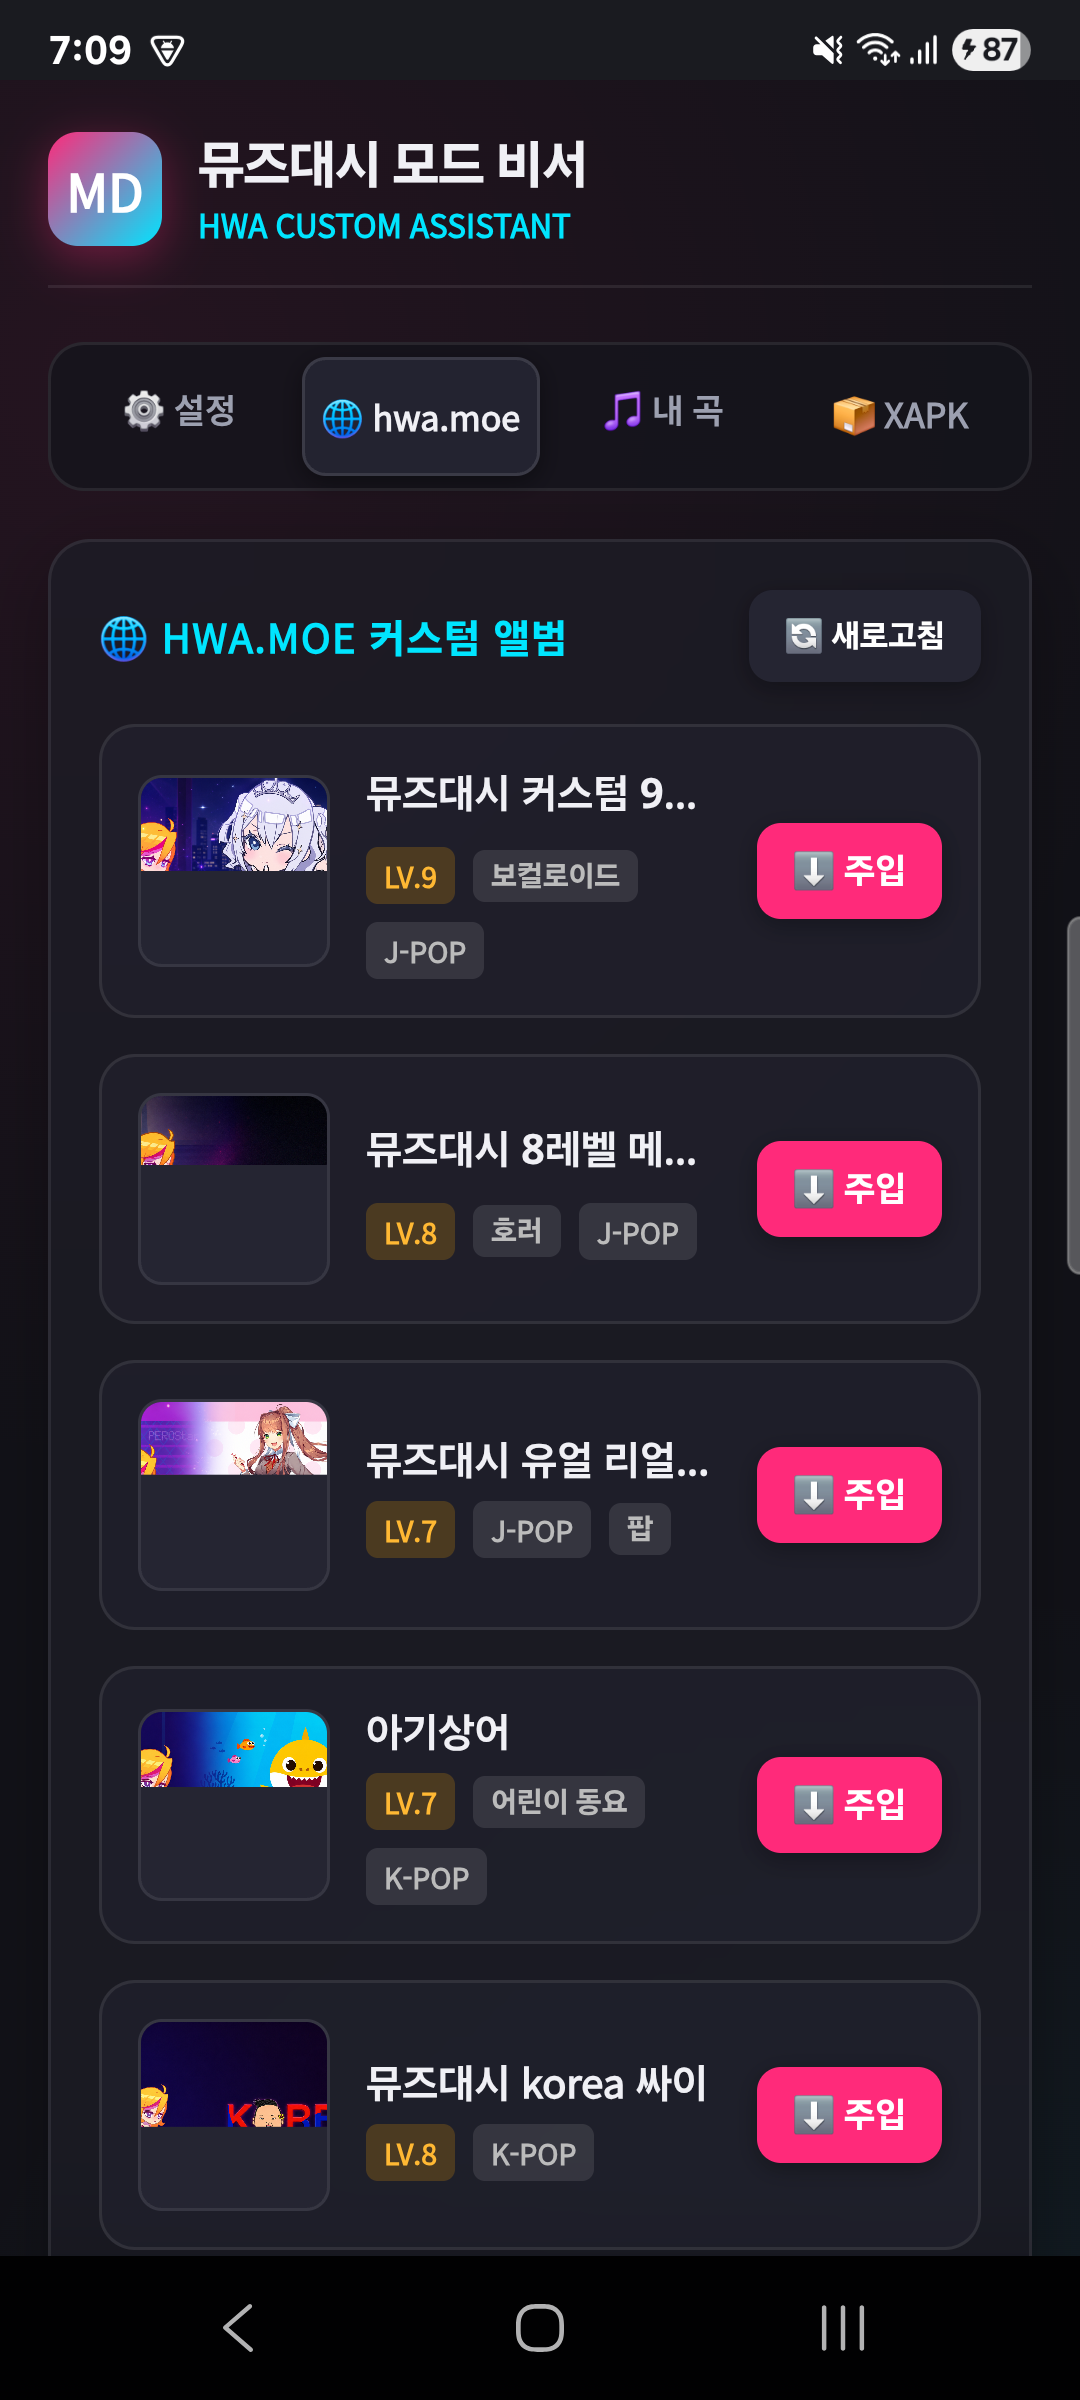
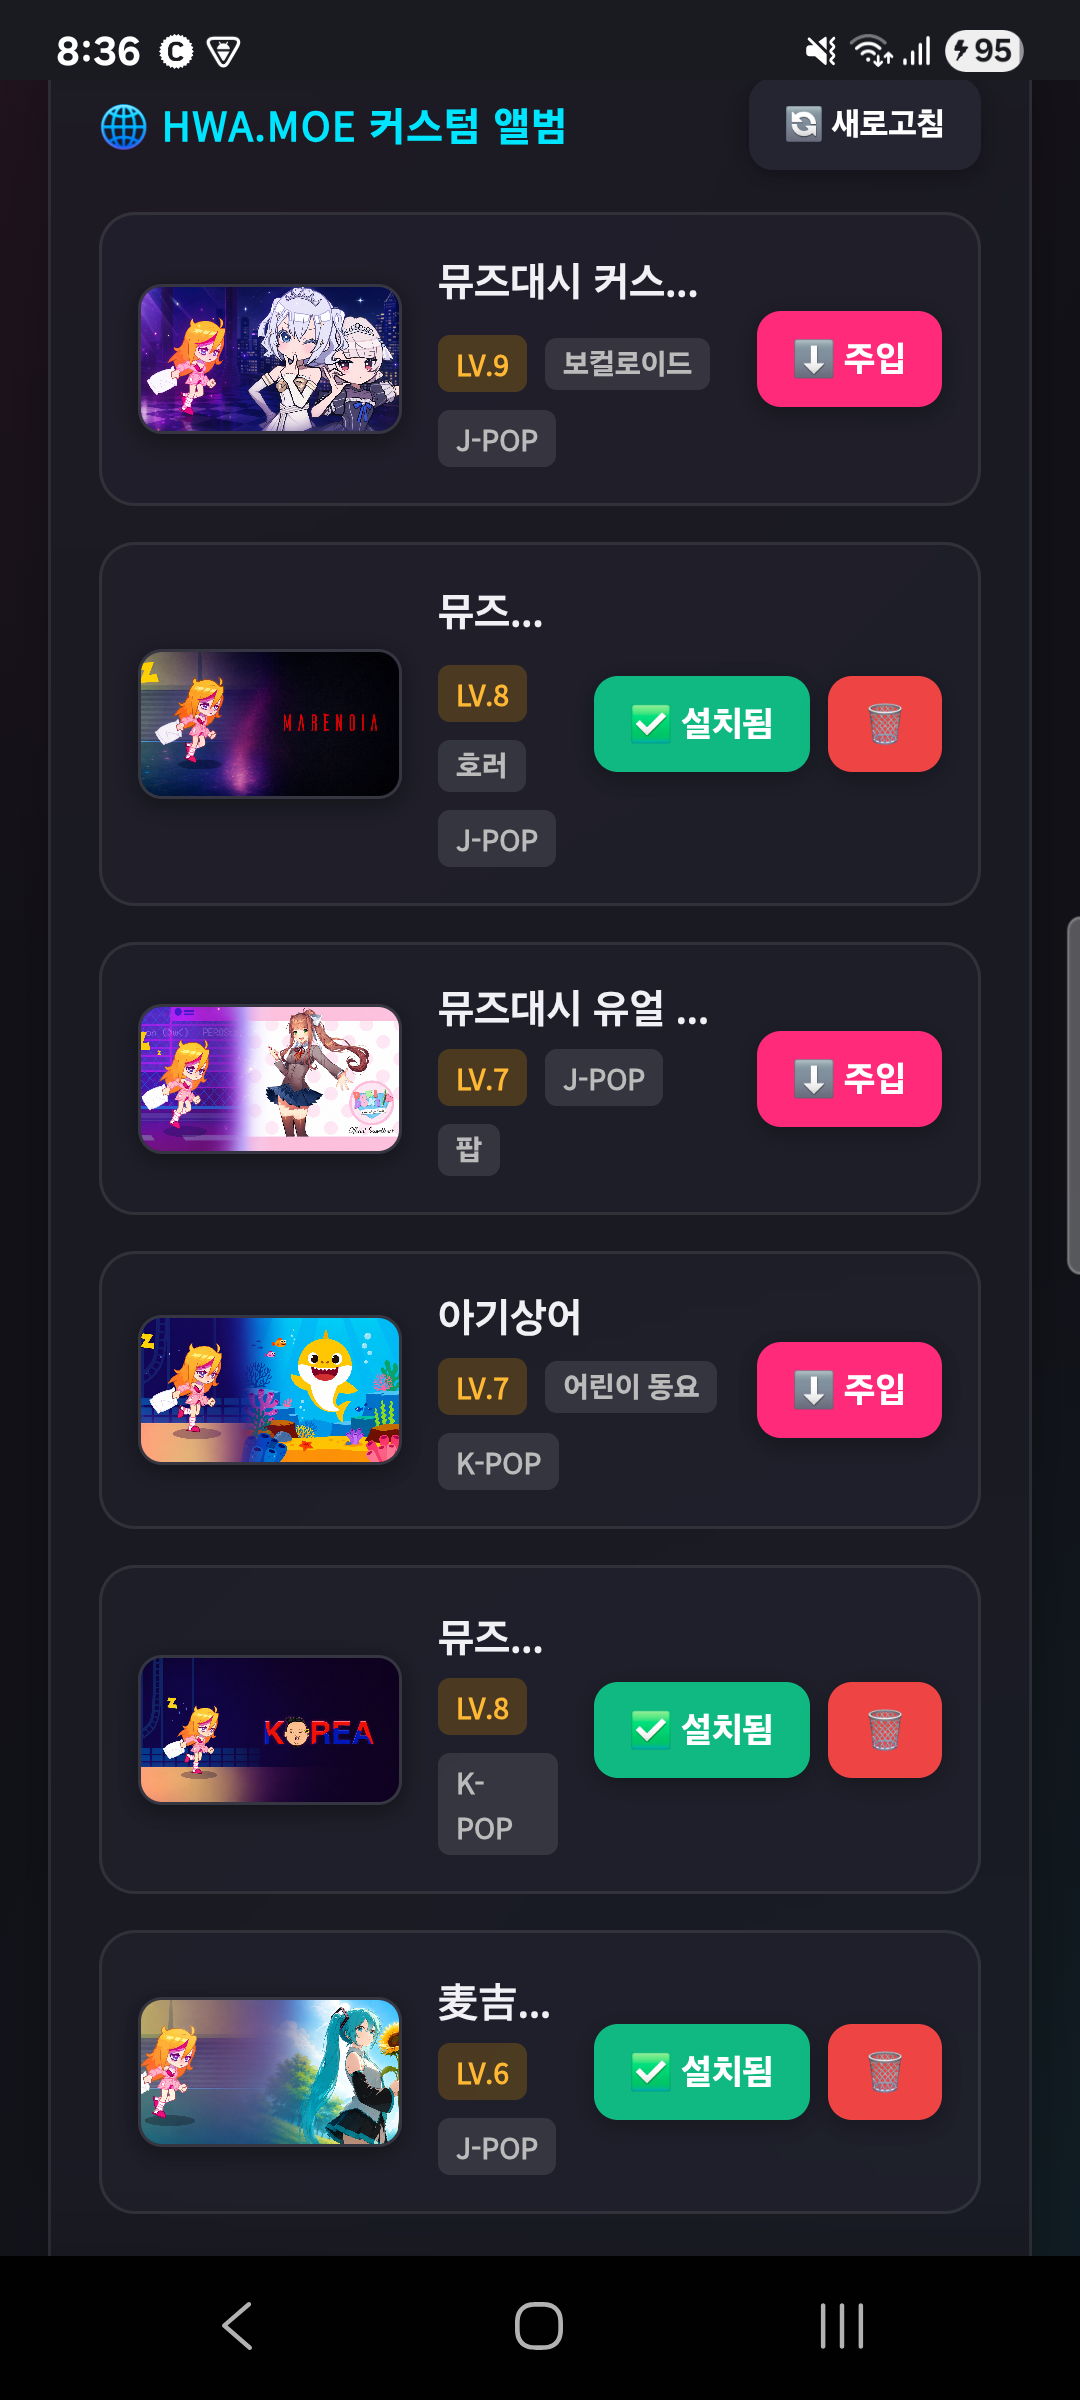
fix(ui): adjust album cover aspect ratio to 16:9 for clean thumbnail display

diff --git a/src/main/assets/index.html b/src/main/assets/index.html
@@ -357,13 +357,15 @@
       align-items: center;
     }
     .album-cover {
-      width: 64px;
-      height: 64px;
+      width: 88px;
+      height: 50px;
       border-radius: 8px;
       object-fit: cover;
+      object-position: center;
       background: #252532;
       flex-shrink: 0;
       border: 1px solid var(--border);
+      box-shadow: 0 2px 8px rgba(0,0,0,0.4);
     }
 
     /* Status Banner */
